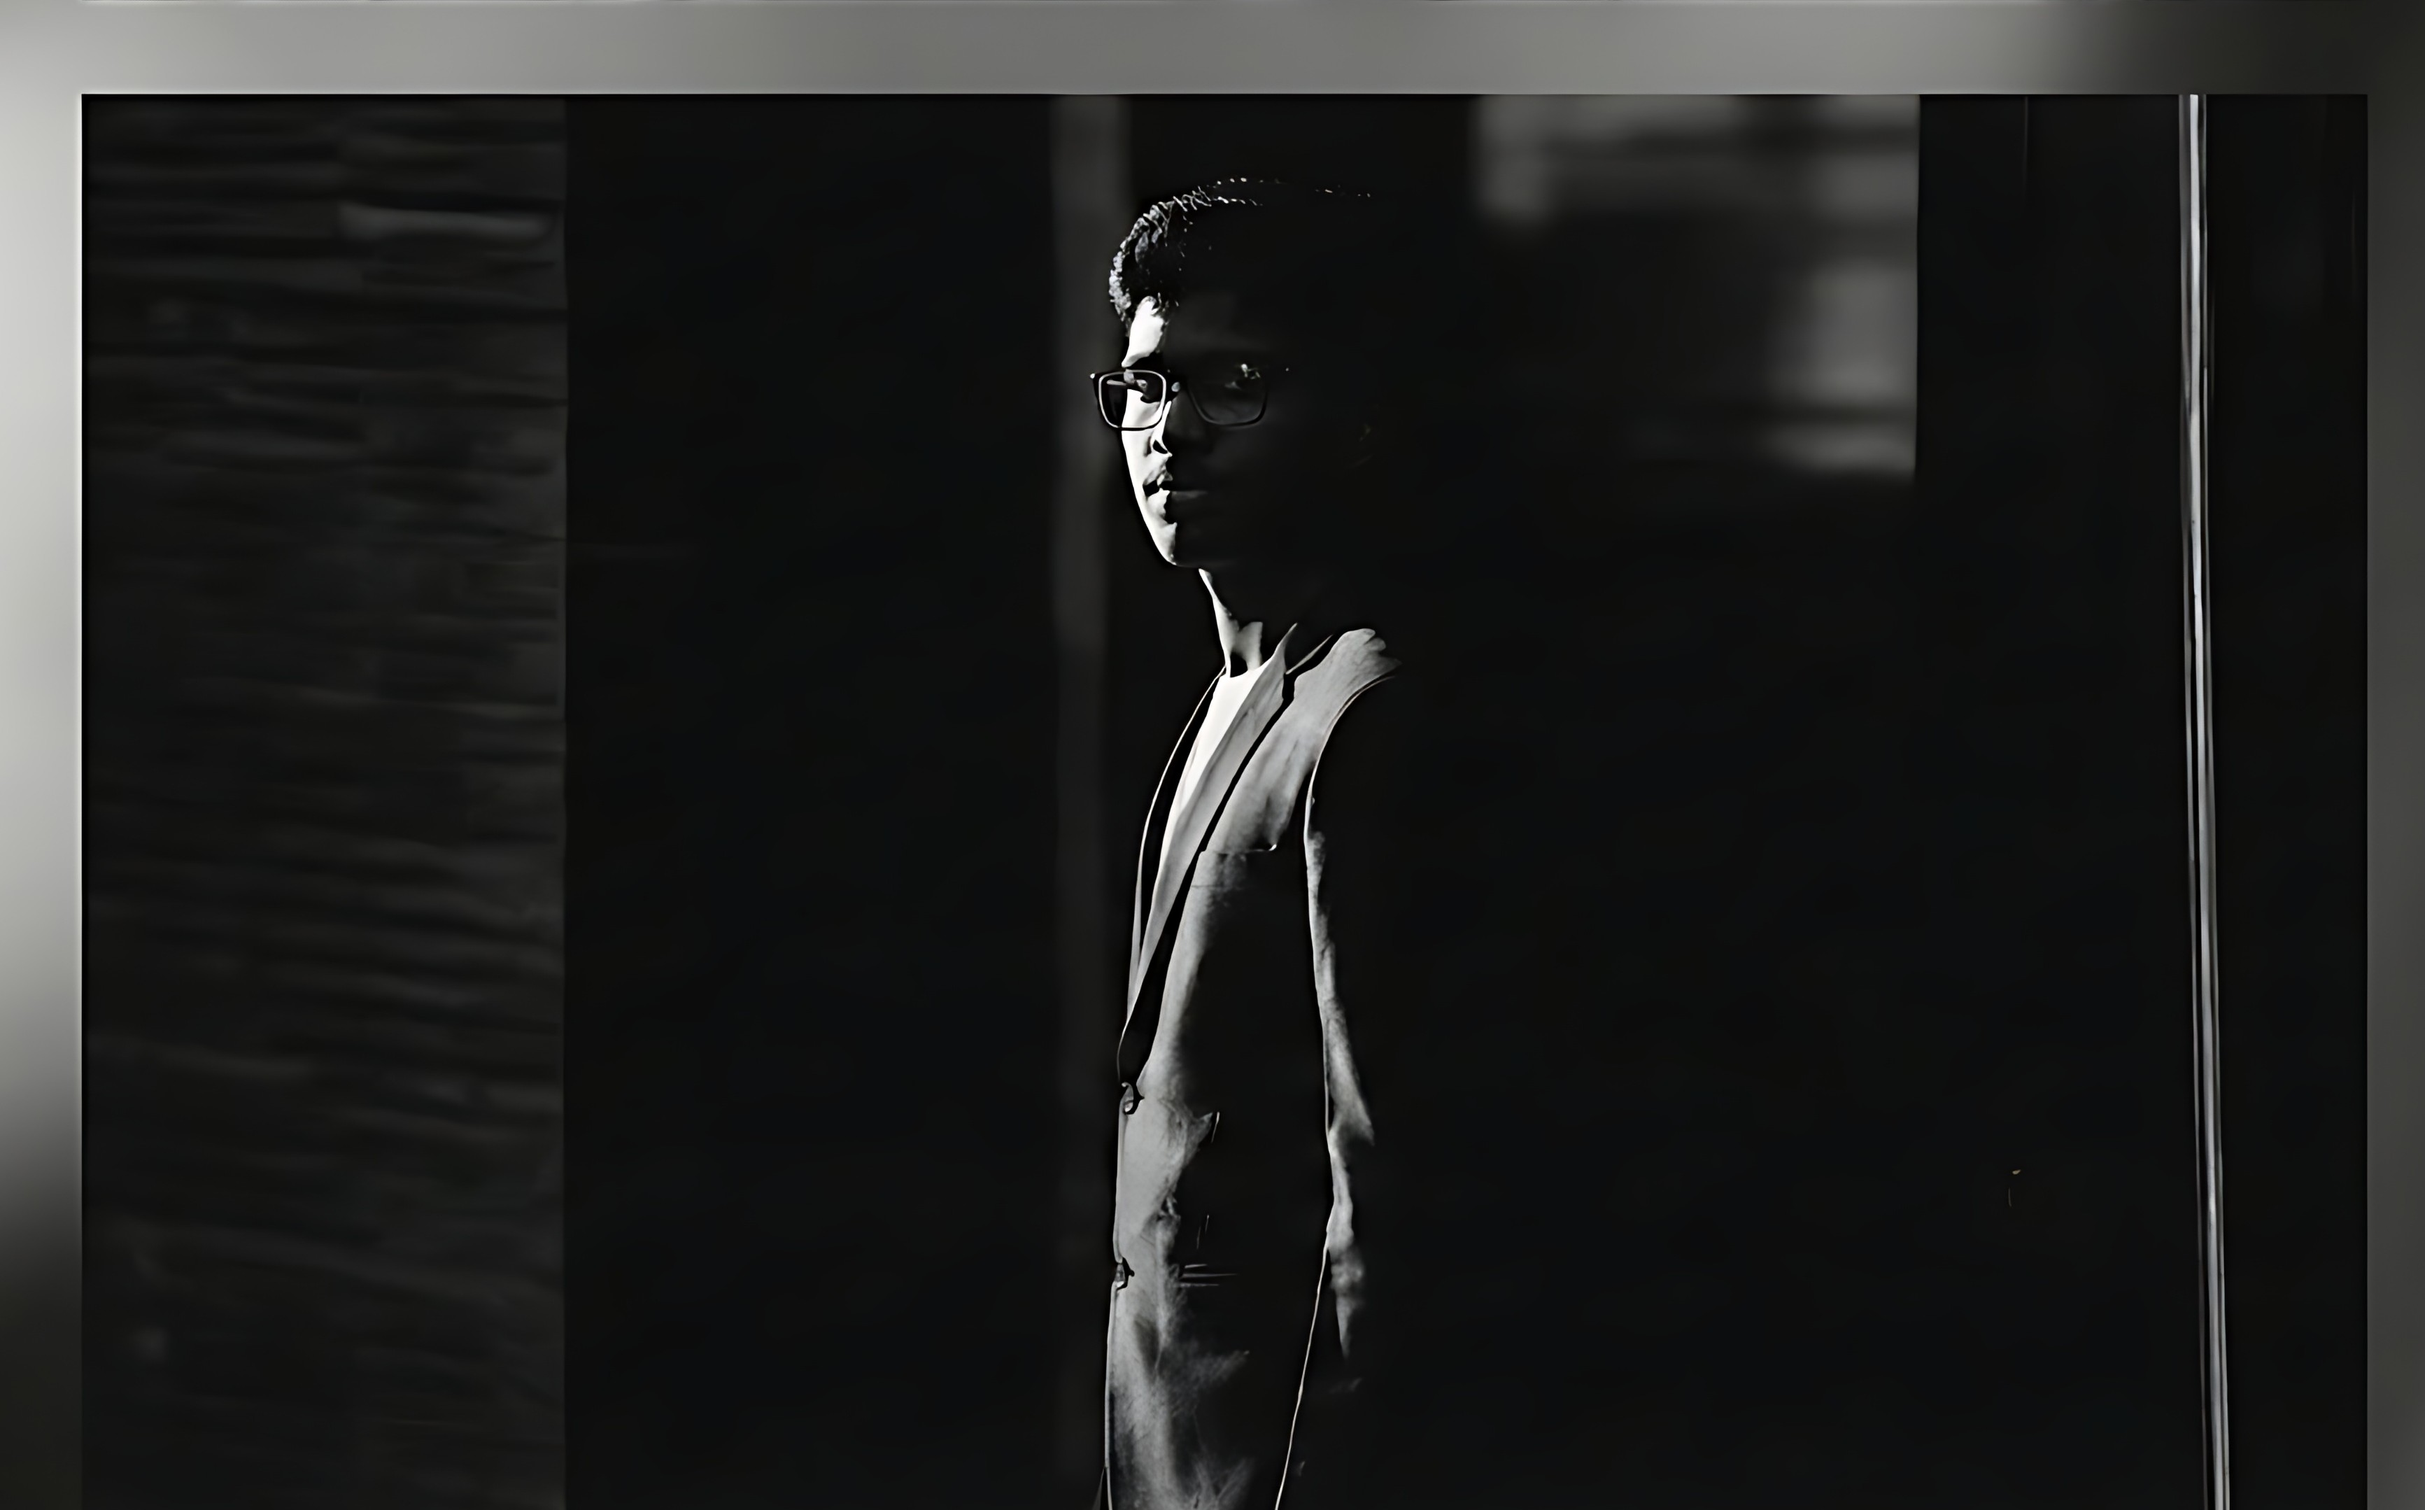
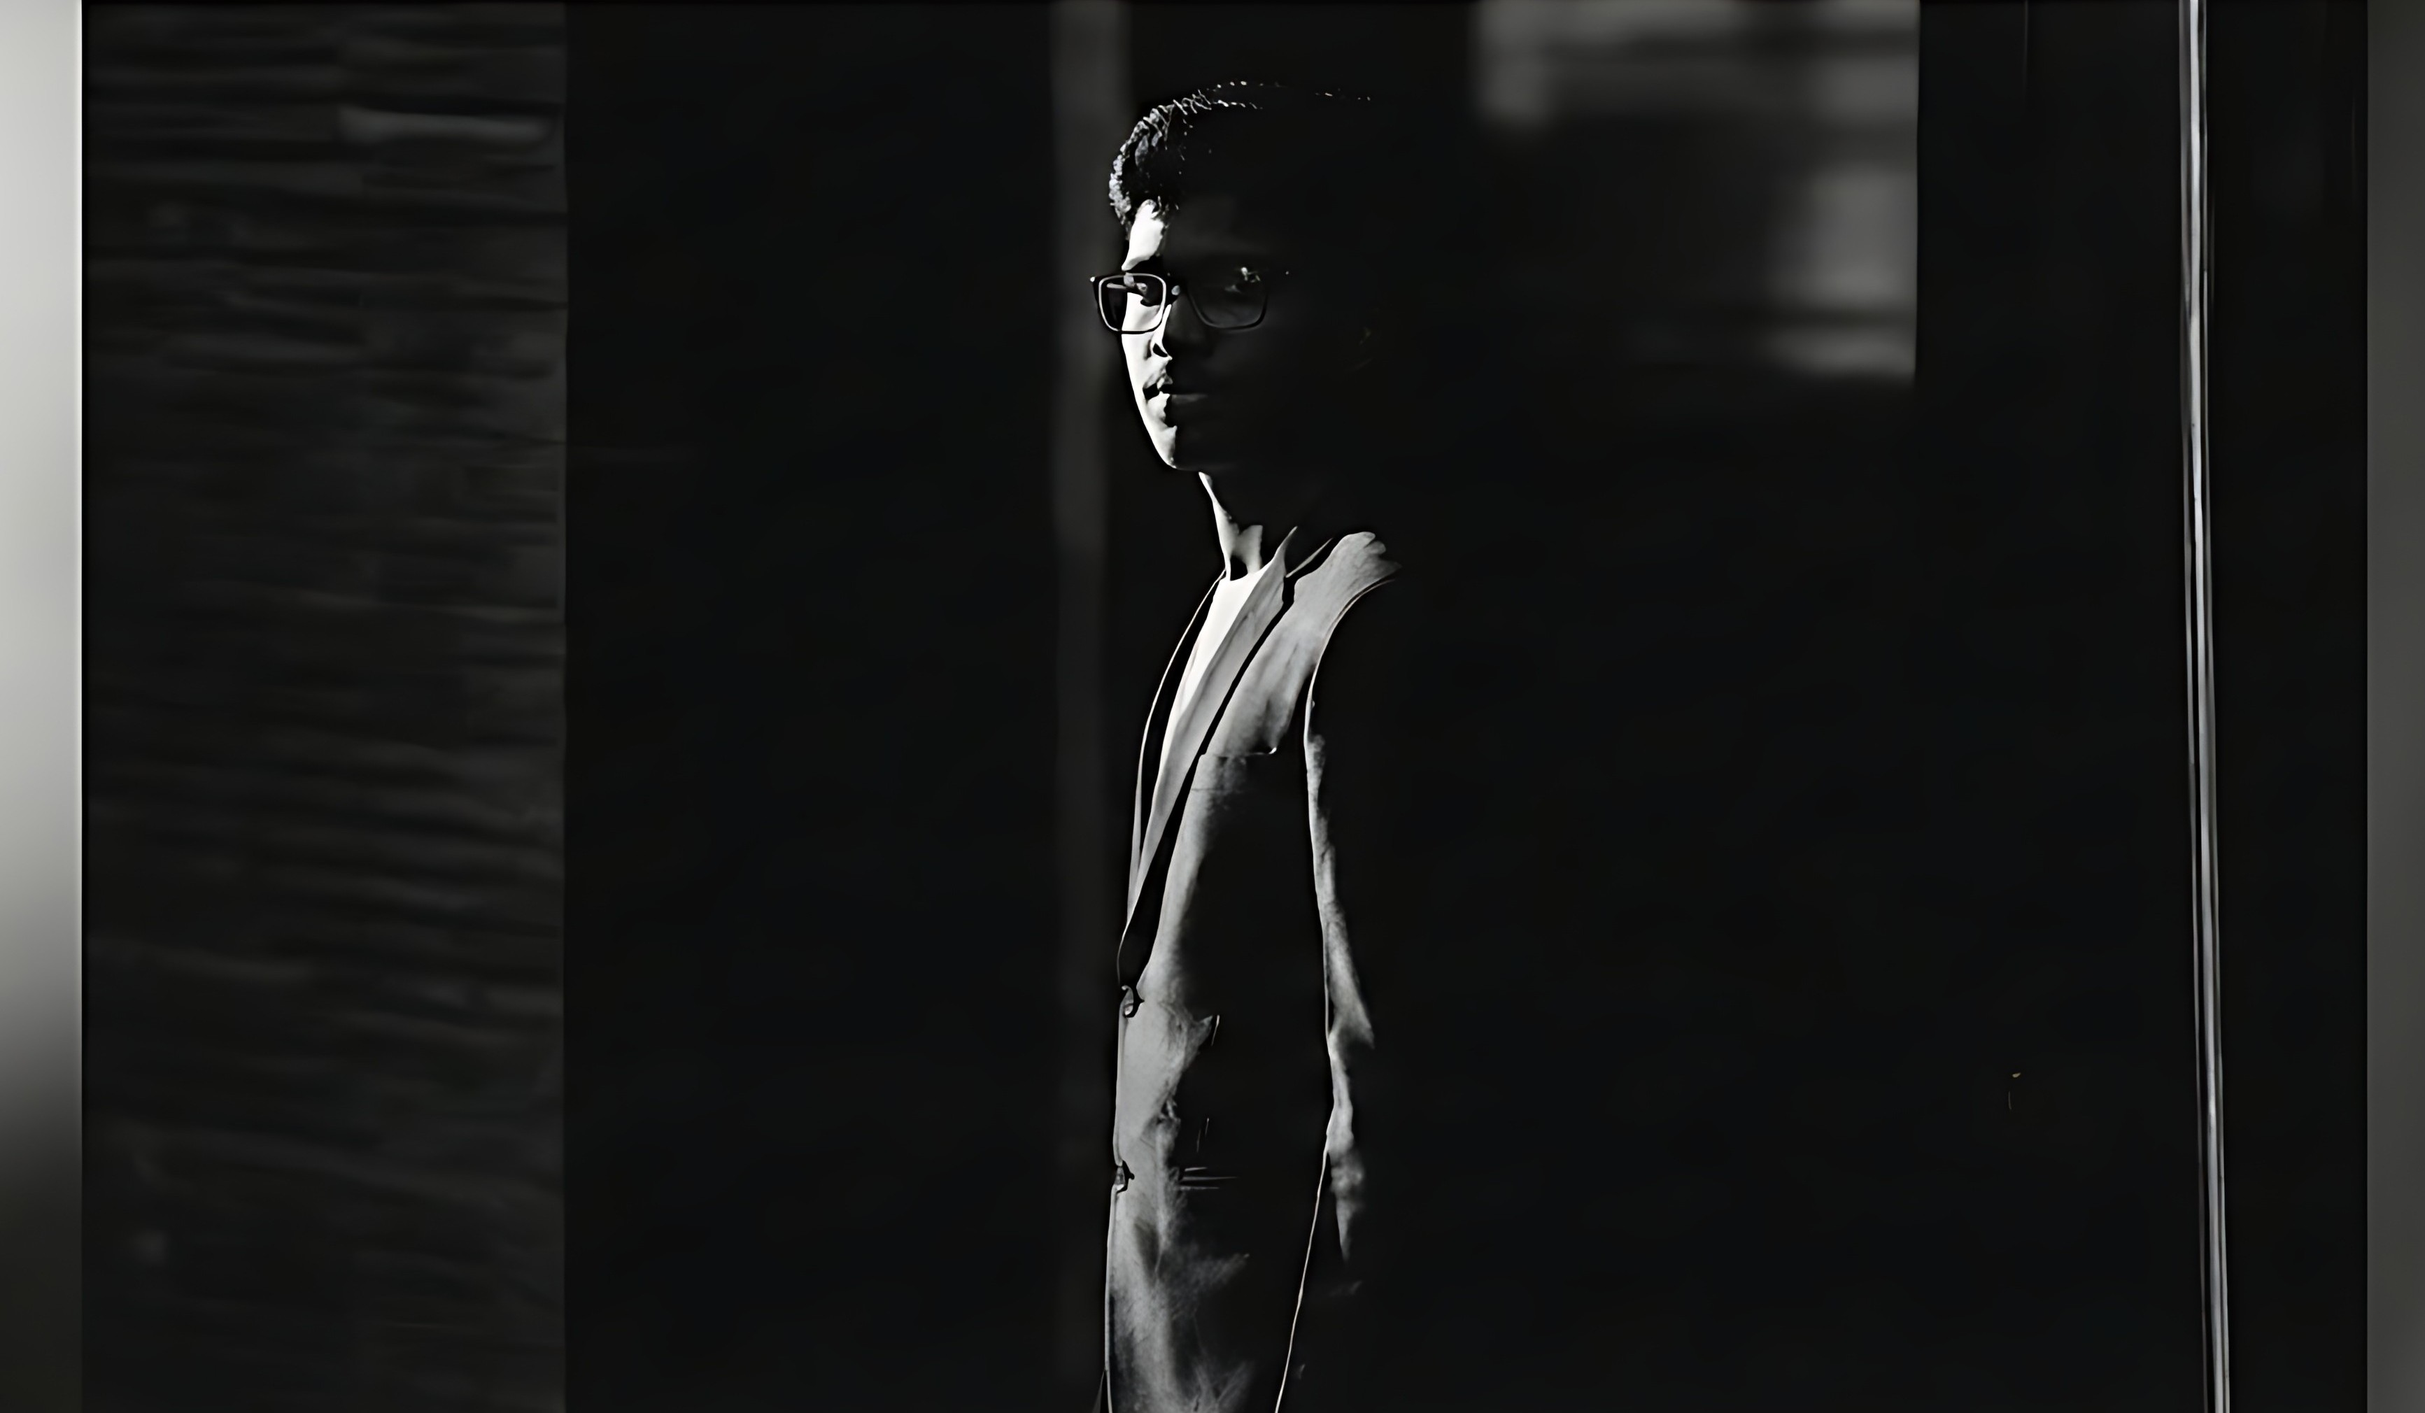
Update: Remove DynamicResume button, fix scrollbar layout shift, update Timeline styling, replace background image

diff --git a/app/layout.tsx b/app/layout.tsx
@@ -1,5 +1,4 @@
 import DynamicLogo from '@/components/ui/DynamicLogo';
-import DynamicResume from '@/components/ui/DynamicResume';
 import NavigationMenu from '@/components/ui/NavigationMenu';
 import ServiceWorkerRegistration from '@/components/ServiceWorkerRegistration';
 import GoogleAnalytics from '@/components/analytics/GoogleAnalytics';
@@ -29,7 +28,6 @@ export default function RootLayout({ children }: { children: React.ReactNode }) 
 
         <Cursor />
         <DynamicLogo />
-        <DynamicResume />
         <NavigationMenu />
         <ServiceWorkerRegistration />
         

diff --git a/src/components/sections/Timeline.tsx b/src/components/sections/Timeline.tsx
@@ -6,7 +6,7 @@ import { portfolioData } from '@/lib/data';
 
 export default function Timeline() {
     return (
-        <section id="timeline" className="min-h-screen w-full flex flex-col items-center justify-start px-6 py-40 md:py-60">
+        <section id="timeline" className="min-h-screen w-full flex flex-col items-center justify-start px-6 py-40 md:py-60 bg-black/40 backdrop-blur-sm">
             <motion.div
                 variants={staggerContainer}
                 initial="hidden"

diff --git a/src/styles/globals.css b/src/styles/globals.css
@@ -34,6 +34,7 @@ html {
     scroll-behavior: smooth;
     overflow-x: hidden;
     min-height: 100%;
+    scrollbar-gutter: stable;
 }
 
 body {
